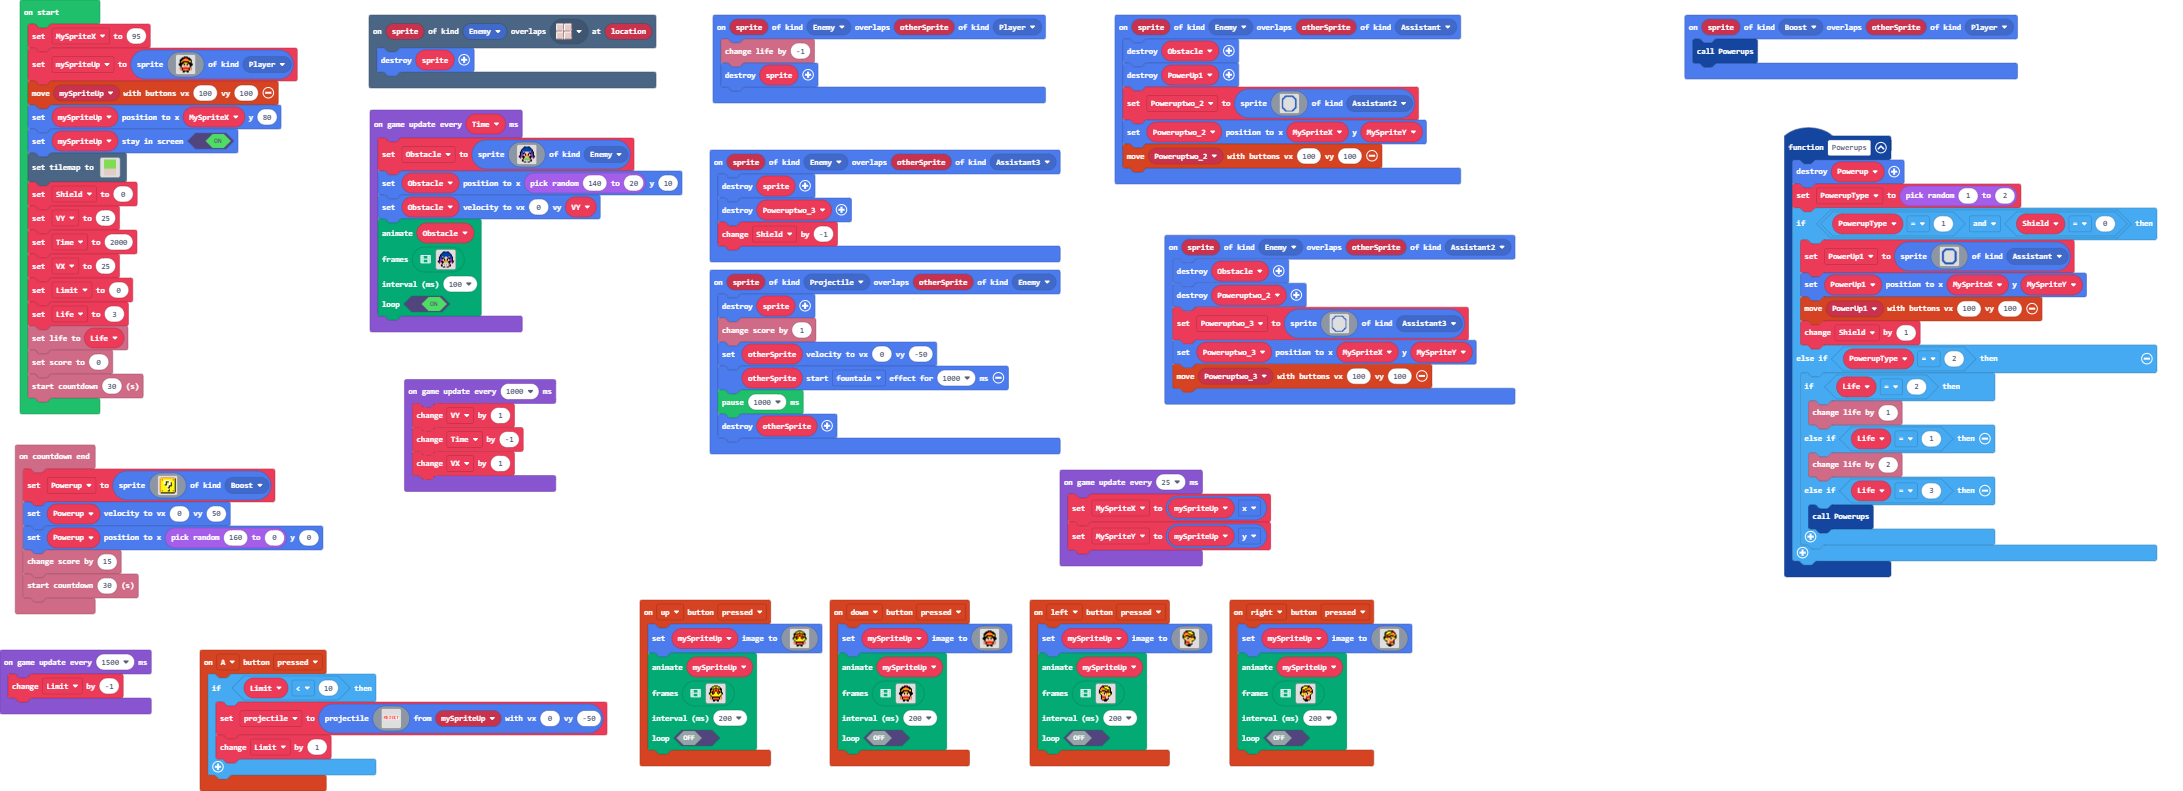
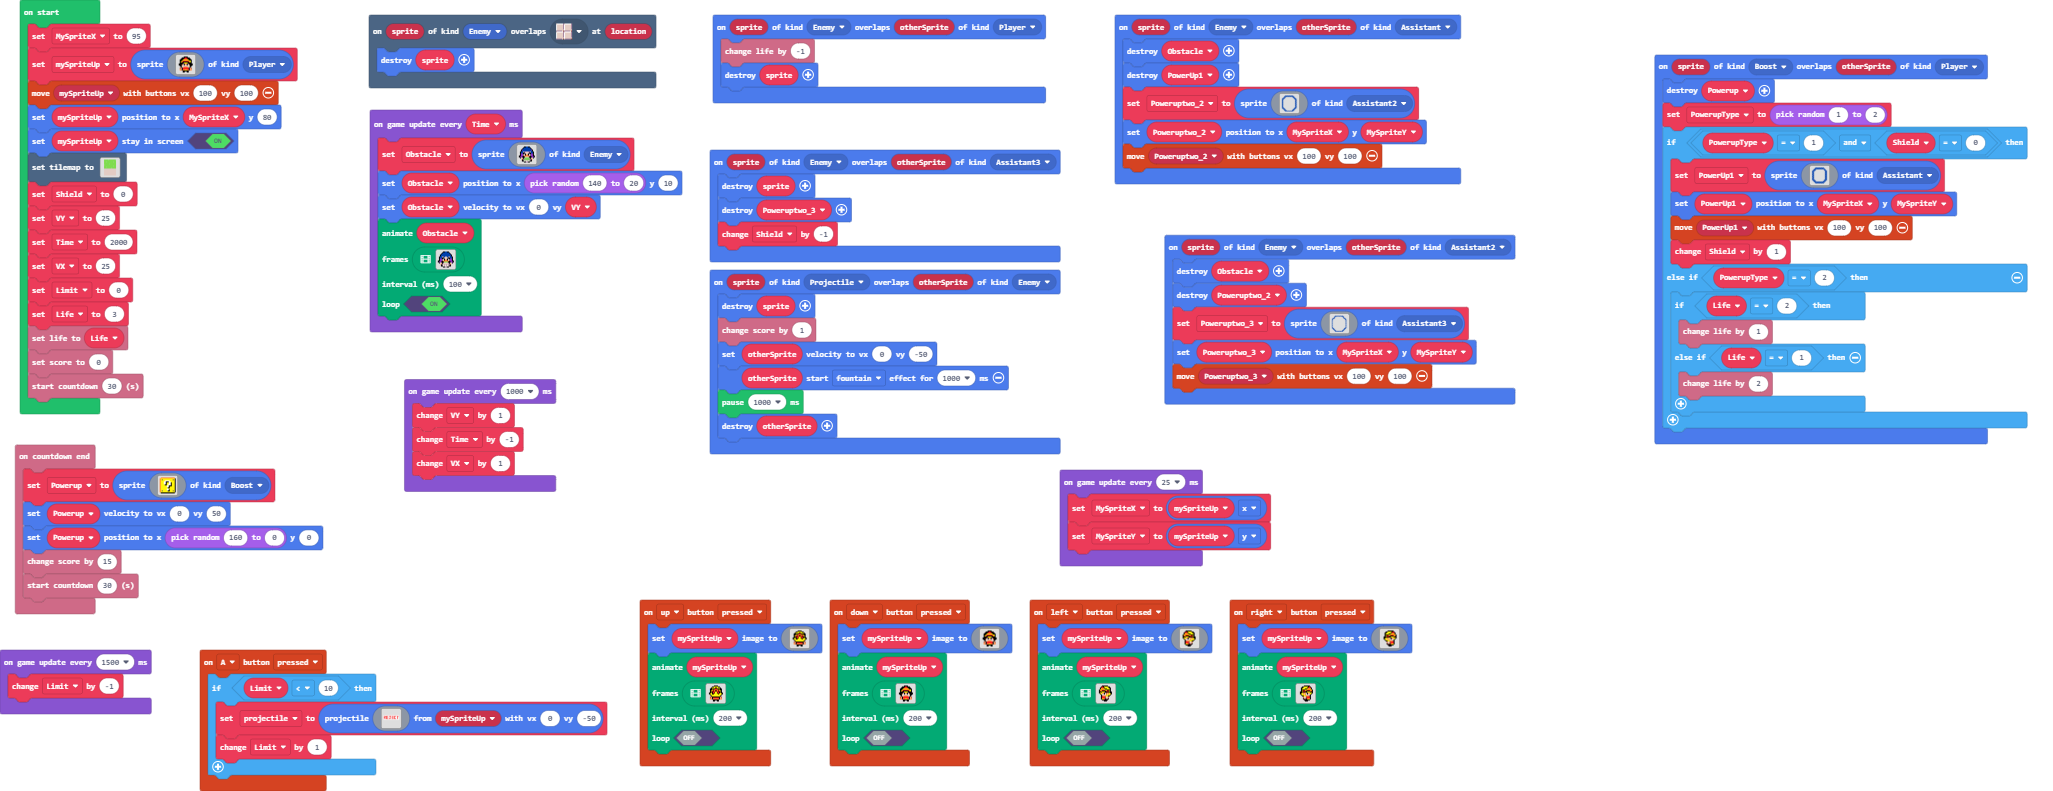
Update main.blocks, main.ts

diff --git a/main.ts b/main.ts
@@ -280,7 +280,46 @@ sprites.onOverlap(SpriteKind.Enemy, SpriteKind.Assistant3, function (sprite, oth
     Shield += -1
 })
 sprites.onOverlap(SpriteKind.Boost, SpriteKind.Player, function (sprite, otherSprite) {
-    Powerups()
+    Powerup.destroy()
+    PowerupType = randint(1, 2)
+    if (PowerupType == 1 && Shield == 0) {
+        PowerUp1 = sprites.create(img`
+            .....8888888888888.....
+            ....888888888888888....
+            ...88888888888888888...
+            ..8888............888..
+            .8888..............888.
+            8888................888
+            888.................888
+            888.................888
+            888.................888
+            888.................888
+            888.................888
+            888.................888
+            888.................888
+            888.................888
+            888.................888
+            888.................888
+            888.................888
+            888.................888
+            888.................888
+            8888...............8888
+            .8888.............8888.
+            ..8888...........8888..
+            ...88888888888888888...
+            ....888888888888888....
+            .....8888888888888.....
+            `, SpriteKind.Assistant)
+        PowerUp1.setPosition(MySpriteX, MySpriteY)
+        controller.moveSprite(PowerUp1, 100, 100)
+        Shield += 1
+    } else if (PowerupType == 2) {
+        if (Life == 2) {
+            info.changeLifeBy(1)
+        } else if (Life == 1) {
+            info.changeLifeBy(2)
+        }
+    }
 })
 controller.right.onEvent(ControllerButtonEvent.Pressed, function () {
     mySpriteUp.setImage(img`
@@ -506,50 +545,6 @@ controller.down.onEvent(ControllerButtonEvent.Pressed, function () {
     false
     )
 })
-function Powerups () {
-    Powerup.destroy()
-    PowerupType = randint(1, 2)
-    if (PowerupType == 1 && Shield == 0) {
-        PowerUp1 = sprites.create(img`
-            .....8888888888888.....
-            ....888888888888888....
-            ...88888888888888888...
-            ..8888............888..
-            .8888..............888.
-            8888................888
-            888.................888
-            888.................888
-            888.................888
-            888.................888
-            888.................888
-            888.................888
-            888.................888
-            888.................888
-            888.................888
-            888.................888
-            888.................888
-            888.................888
-            888.................888
-            8888...............8888
-            .8888.............8888.
-            ..8888...........8888..
-            ...88888888888888888...
-            ....888888888888888....
-            .....8888888888888.....
-            `, SpriteKind.Assistant)
-        PowerUp1.setPosition(MySpriteX, MySpriteY)
-        controller.moveSprite(PowerUp1, 100, 100)
-        Shield += 1
-    } else if (PowerupType == 2) {
-        if (Life == 2) {
-            info.changeLifeBy(1)
-        } else if (Life == 1) {
-            info.changeLifeBy(2)
-        } else if (Life == 3) {
-            Powerups()
-        }
-    }
-}
 sprites.onOverlap(SpriteKind.Projectile, SpriteKind.Enemy, function (sprite, otherSprite) {
     sprite.destroy()
     info.changeScoreBy(1)
@@ -558,8 +553,8 @@ sprites.onOverlap(SpriteKind.Projectile, SpriteKind.Enemy, function (sprite, oth
     pause(1000)
     otherSprite.destroy()
 })
-let PowerupType = 0
 let PowerUp1: Sprite = null
+let PowerupType = 0
 let Powerup: Sprite = null
 let projectile: Sprite = null
 let MySpriteY = 0
